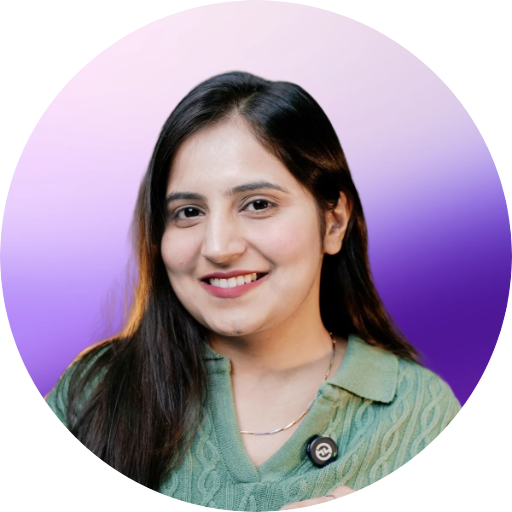
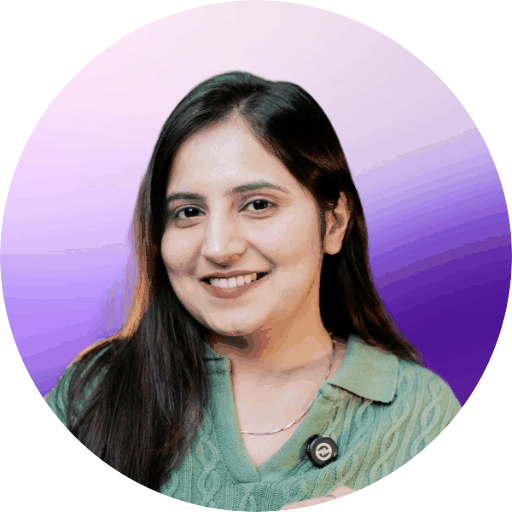
Add cookie consent, load fonts without @import, trim image weight
A cookie notice (accept all / essential only) saves its choice and exposes
window.kcConsent, so analytics can be gated on it later; a Cookie settings
button in every footer reopens it and the Cookie Policy now says so. Google
Fonts moves from a CSS @import to link tags so it no longer waits on the
stylesheet. The 512px icon drops from 329 KB to 162 KB, and the logo strip
images gain width and height to stop layout shift. Sitemap dates refreshed.

diff --git a/assets/js/main.js b/assets/js/main.js
@@ -2,6 +2,83 @@
 (function () {
   'use strict';
 
+  /* ---------- cookie consent ----------------------------------------------
+     The visitor chooses "all" or "essential"; the choice lives in
+     localStorage and any page can read it through window.kcConsent. Nothing
+     non-essential is loaded yet. When analytics goes in, load it only after
+     kcConsent.allowed() is true, or inside a 'kc:consent' listener:
+
+       if (kcConsent.allowed()) loadAnalytics();
+       document.addEventListener('kc:consent', function (e) {
+         if (e.detail === 'all') loadAnalytics();
+       });
+
+     The footer's "Cookie settings" button reopens the notice.             */
+  (function () {
+    var KEY = 'kc:consent';
+    var read = function () {
+      try { var v = localStorage.getItem(KEY); return v === 'all' || v === 'essential' ? v : null; }
+      catch (err) { return null; }
+    };
+    var write = function (v) {
+      try { localStorage.setItem(KEY, v); } catch (err) { /* private mode: choice lasts the page */ }
+    };
+    var current = read();
+
+    window.kcConsent = {
+      get: function () { return current; },
+      allowed: function () { return current === 'all'; }
+    };
+
+    var box = null;
+    var build = function () {
+      box = document.createElement('div');
+      box.className = 'consent';
+      box.setAttribute('role', 'dialog');
+      box.setAttribute('aria-label', 'Cookie preferences');
+      box.hidden = true;
+      box.innerHTML =
+        '<p class="consent__title">Cookies</p>' +
+        '<p class="consent__text">We use essential cookies to keep the site working, and, if you allow it, analytics ' +
+        'cookies to see how it is used. <a href="/cookie-policy.html">Cookie Policy</a></p>' +
+        '<div class="consent__actions">' +
+          '<button type="button" class="btn" data-consent="all">Accept all</button>' +
+          '<button type="button" class="btn btn--ghost" data-consent="essential">Essential only</button>' +
+        '</div>';
+      box.addEventListener('click', function (e) {
+        var b = e.target.closest('[data-consent]');
+        if (!b) return;
+        current = b.getAttribute('data-consent');
+        write(current);
+        box.classList.remove('is-open');
+        setTimeout(function () { box.hidden = true; }, 350);
+        document.dispatchEvent(new CustomEvent('kc:consent', { detail: current }));
+      });
+      document.body.appendChild(box);
+    };
+
+    var open = function (focus) {
+      if (!box) build();
+      box.hidden = false;
+      // reading a layout property commits the hidden state first, so the
+      // transition runs (no frame callbacks: they stall in background tabs)
+      void box.offsetWidth;
+      box.classList.add('is-open');
+      if (focus) { var first = box.querySelector('button'); if (first) first.focus(); }
+    };
+
+    document.addEventListener('click', function (e) {
+      if (e.target.closest('[data-cookie-settings]')) open(true);
+    });
+
+    // First visit: wait until the loading screen has gone, then ask.
+    if (current === null) {
+      var ask = function () { setTimeout(function () { if (read() === null) open(false); }, 900); };
+      if (document.readyState === 'complete') ask();
+      else window.addEventListener('load', ask);
+    }
+  })();
+
   /* ---------- loading screen ----------------------------------------------
      A logo over a progress bar. The bar is a spring chasing a target that
      creeps forward in random steps every half second, never past 90% until

diff --git a/index.html b/index.html
@@ -27,6 +27,7 @@
 <meta name="theme-color" content="#742aff">
 <link rel="preconnect" href="https://fonts.googleapis.com">
 <link rel="preconnect" href="https://fonts.gstatic.com" crossorigin>
+<link rel="stylesheet" href="https://fonts.googleapis.com/css2?family=Bricolage+Grotesque:opsz,wdth,wght@12..96,75..100,200..800&amp;family=Geist+Mono:wght@300..700&amp;display=swap">
 <link rel="stylesheet" href="assets/css/style.css">
 <script type="application/ld+json">
 {
@@ -144,14 +145,14 @@
     </div>
     <div class="marquee">
       <div class="marquee__track logo-track">
-        <span class="logo-item"><img src="assets/img/logos/hp.svg" alt="HP" data-logo="hp"></span>
-        <span class="logo-item"><img src="assets/img/logos/hostinger.svg" alt="Hostinger" data-logo="hostinger"></span>
-        <span class="logo-item"><img src="assets/img/logos/onecard.svg" alt="OneCard" data-logo="onecard"></span>
-        <span class="logo-item"><img src="assets/img/logos/kommo.svg" alt="Kommo" data-logo="kommo"></span>
-        <span class="logo-item"><img src="assets/img/logos/superprofile.svg" alt="Superprofile" data-logo="superprofile"></span>
-        <span class="logo-item"><img src="assets/img/logos/aisensy.svg" alt="AiSensy" data-logo="aisensy"></span>
-        <span class="logo-item"><img src="assets/img/logos/briskpe.svg" alt="BriskPe" data-logo="briskpe"></span>
-        <span class="logo-item"><img src="assets/img/logos/creatorx.svg" alt="CreatorX" data-logo="creatorx"></span>
+        <span class="logo-item"><img src="assets/img/logos/hp.svg" alt="HP" width="367" height="367" data-logo="hp"></span>
+        <span class="logo-item"><img src="assets/img/logos/hostinger.svg" alt="Hostinger" width="979" height="199" data-logo="hostinger"></span>
+        <span class="logo-item"><img src="assets/img/logos/onecard.svg" alt="OneCard" width="568" height="326" data-logo="onecard"></span>
+        <span class="logo-item"><img src="assets/img/logos/kommo.svg" alt="Kommo" width="964" height="208" data-logo="kommo"></span>
+        <span class="logo-item"><img src="assets/img/logos/superprofile.svg" alt="Superprofile" width="1063" height="245" data-logo="superprofile"></span>
+        <span class="logo-item"><img src="assets/img/logos/aisensy.svg" alt="AiSensy" width="879" height="184" data-logo="aisensy"></span>
+        <span class="logo-item"><img src="assets/img/logos/briskpe.svg" alt="BriskPe" width="769" height="160" data-logo="briskpe"></span>
+        <span class="logo-item"><img src="assets/img/logos/creatorx.svg" alt="CreatorX" width="797" height="143" data-logo="creatorx"></span>
       </div>
     </div>
   </div>
@@ -1048,6 +1049,7 @@
         <a href="privacy-policy.html">Privacy Policy</a>
         <a href="terms-of-use.html">Terms of Use</a>
         <a href="cookie-policy.html">Cookie Policy</a>
+        <button type="button" class="footer__link-btn" data-cookie-settings>Cookie settings</button>
         <a href="disclaimer.html">Disclaimer</a>
       </p>
     </div>

diff --git a/portfolio.html b/portfolio.html
@@ -27,6 +27,7 @@
 <meta name="theme-color" content="#742aff">
 <link rel="preconnect" href="https://fonts.googleapis.com">
 <link rel="preconnect" href="https://fonts.gstatic.com" crossorigin>
+<link rel="stylesheet" href="https://fonts.googleapis.com/css2?family=Bricolage+Grotesque:opsz,wdth,wght@12..96,75..100,200..800&amp;family=Geist+Mono:wght@300..700&amp;display=swap">
 <link rel="stylesheet" href="assets/css/style.css">
 </head>
 <body>
@@ -401,14 +402,14 @@
   </div>
   <div class="marquee">
     <div class="marquee__track logo-track">
-      <span class="logo-item"><img src="assets/img/logos/hp.svg" alt="HP" data-logo="hp"></span>
-      <span class="logo-item"><img src="assets/img/logos/hostinger.svg" alt="Hostinger" data-logo="hostinger"></span>
-      <span class="logo-item"><img src="assets/img/logos/onecard.svg" alt="OneCard" data-logo="onecard"></span>
-      <span class="logo-item"><img src="assets/img/logos/kommo.svg" alt="Kommo" data-logo="kommo"></span>
-      <span class="logo-item"><img src="assets/img/logos/superprofile.svg" alt="Superprofile" data-logo="superprofile"></span>
-      <span class="logo-item"><img src="assets/img/logos/aisensy.svg" alt="AiSensy" data-logo="aisensy"></span>
-      <span class="logo-item"><img src="assets/img/logos/briskpe.svg" alt="BriskPe" data-logo="briskpe"></span>
-      <span class="logo-item"><img src="assets/img/logos/creatorx.svg" alt="CreatorX" data-logo="creatorx"></span>
+      <span class="logo-item"><img src="assets/img/logos/hp.svg" alt="HP" width="367" height="367" data-logo="hp"></span>
+      <span class="logo-item"><img src="assets/img/logos/hostinger.svg" alt="Hostinger" width="979" height="199" data-logo="hostinger"></span>
+      <span class="logo-item"><img src="assets/img/logos/onecard.svg" alt="OneCard" width="568" height="326" data-logo="onecard"></span>
+      <span class="logo-item"><img src="assets/img/logos/kommo.svg" alt="Kommo" width="964" height="208" data-logo="kommo"></span>
+      <span class="logo-item"><img src="assets/img/logos/superprofile.svg" alt="Superprofile" width="1063" height="245" data-logo="superprofile"></span>
+      <span class="logo-item"><img src="assets/img/logos/aisensy.svg" alt="AiSensy" width="879" height="184" data-logo="aisensy"></span>
+      <span class="logo-item"><img src="assets/img/logos/briskpe.svg" alt="BriskPe" width="769" height="160" data-logo="briskpe"></span>
+      <span class="logo-item"><img src="assets/img/logos/creatorx.svg" alt="CreatorX" width="797" height="143" data-logo="creatorx"></span>
     </div>
   </div>
 </section>
@@ -594,6 +595,7 @@
         <a href="privacy-policy.html">Privacy Policy</a>
         <a href="terms-of-use.html">Terms of Use</a>
         <a href="cookie-policy.html">Cookie Policy</a>
+        <button type="button" class="footer__link-btn" data-cookie-settings>Cookie settings</button>
         <a href="disclaimer.html">Disclaimer</a>
       </p>
     </div>

diff --git a/assets/css/style.css b/assets/css/style.css
@@ -5,8 +5,6 @@
    Palette: black / white / neutrals
    ========================================================================== */
 
-@import url('https://fonts.googleapis.com/css2?family=Bricolage+Grotesque:opsz,wdth,wght@12..96,75..100,200..800&family=Geist+Mono:wght@300..700&display=swap');
-
 /* --------------------------------------------------------------------------
    1. Tokens
    -------------------------------------------------------------------------- */
@@ -1579,6 +1577,11 @@ em, .em        { font-style: italic; font-weight: 500; }
 }
 .footer__copy a { color: var(--on-dark-3); text-decoration: underline; text-underline-offset: .22em; }
 .footer__copy a:hover { color: var(--on-dark-2); }
+.footer__link-btn {
+  padding: 0; border: 0; background: none; font: inherit; cursor: pointer;
+  color: var(--on-dark-3); text-decoration: underline; text-underline-offset: .22em;
+}
+.footer__link-btn:hover { color: var(--on-dark-2); }
 
 /* Phones get the email on its own line and the two socials beneath it, and
    the copyright on its own line above the two policy links.
@@ -3053,3 +3056,29 @@ em, .em        { font-style: italic; font-weight: 500; }
   will-change: transform;
 }
 @keyframes preloader-failsafe { to { opacity: 0; visibility: hidden; pointer-events: none; } }
+
+/* --------------------------------------------------------------------------
+   Cookie notice — built by main.js on a first visit, and by the footer's
+   "Cookie settings" button afterwards. Sits under the loading screen.
+   -------------------------------------------------------------------------- */
+.consent {
+  position: fixed; left: 1rem; bottom: 1rem; z-index: 900;
+  width: min(25rem, calc(100vw - 2rem));
+  padding: 1.25rem 1.25rem 1.1rem;
+  background: var(--paper); color: var(--text);
+  border: 1px solid var(--line); border-radius: var(--r-card);
+  box-shadow: 0 18px 48px -18px rgba(0, 0, 0, .28), 0 2px 6px rgba(0, 0, 0, .06);
+  opacity: 0; transform: translateY(14px);
+  transition: opacity .35s var(--ease), transform .35s var(--ease);
+}
+.consent[hidden] { display: none; }
+.consent.is-open { opacity: 1; transform: none; }
+.consent__title { margin: 0 0 .35rem; font-weight: 600; font-size: 1.05rem; letter-spacing: var(--ls-tight); }
+.consent__text { margin: 0; font-size: var(--fs-sm); line-height: 1.5; color: var(--text-2); }
+.consent__text a { color: inherit; text-decoration: underline; text-underline-offset: .2em; }
+.consent__actions { display: flex; flex-wrap: wrap; gap: .5rem; margin-top: 1rem; }
+.consent__actions .btn { padding: .6rem 1.1rem; font-size: var(--fs-sm); }
+@media (max-width: 480px) {
+  .consent { left: .75rem; right: .75rem; bottom: .75rem; width: auto; }
+  .consent__actions .btn { flex: 1 1 0; justify-content: center; }
+}

diff --git a/cookie-policy.html b/cookie-policy.html
@@ -27,6 +27,7 @@
 <meta name="theme-color" content="#742aff">
 <link rel="preconnect" href="https://fonts.googleapis.com">
 <link rel="preconnect" href="https://fonts.gstatic.com" crossorigin>
+<link rel="stylesheet" href="https://fonts.googleapis.com/css2?family=Bricolage+Grotesque:opsz,wdth,wght@12..96,75..100,200..800&amp;family=Geist+Mono:wght@300..700&amp;display=swap">
 <link rel="stylesheet" href="assets/css/style.css">
 </head>
 <body>
@@ -128,7 +129,7 @@
           <li>Receive warnings before cookies are stored</li>
         </ul>
         <p>Disabling certain cookies may affect website functionality.</p>
-        <p>Where legally required, Kajal &amp; Co. may also provide additional cookie controls on the website.</p>
+        <p>When you first visit, a cookie notice lets you accept or reject non-essential cookies. Non-essential cookies, such as analytics, are only set if you accept. You can change your choice at any time with the &ldquo;Cookie settings&rdquo; link in the footer of every page.</p>
         <h2 class="h3">6. Changes to This Cookie Policy</h2>
         <p>Kajal &amp; Co. may update this Cookie Policy when tracking technologies or website functionality change.</p>
         <p>The updated version will be published on this page with a revised "Last updated" date.</p>
@@ -157,6 +158,7 @@
         <a href="privacy-policy.html">Privacy Policy</a>
         <a href="terms-of-use.html">Terms of Use</a>
         <a href="cookie-policy.html">Cookie Policy</a>
+        <button type="button" class="footer__link-btn" data-cookie-settings>Cookie settings</button>
         <a href="disclaimer.html">Disclaimer</a>
       </p>
     </div>

diff --git a/work/4s-realty-ventures.html b/work/4s-realty-ventures.html
@@ -27,6 +27,7 @@
 <meta name="theme-color" content="#742aff">
 <link rel="preconnect" href="https://fonts.googleapis.com">
 <link rel="preconnect" href="https://fonts.gstatic.com" crossorigin>
+<link rel="stylesheet" href="https://fonts.googleapis.com/css2?family=Bricolage+Grotesque:opsz,wdth,wght@12..96,75..100,200..800&amp;family=Geist+Mono:wght@300..700&amp;display=swap">
 <link rel="stylesheet" href="../assets/css/style.css">
 
 <script type="application/ld+json">
@@ -510,6 +511,7 @@
         <a href="../privacy-policy.html">Privacy Policy</a>
         <a href="../terms-of-use.html">Terms of Use</a>
         <a href="../cookie-policy.html">Cookie Policy</a>
+        <button type="button" class="footer__link-btn" data-cookie-settings>Cookie settings</button>
         <a href="../disclaimer.html">Disclaimer</a>
       </p>
     </div>

diff --git a/work/aarshaveda.html b/work/aarshaveda.html
@@ -27,6 +27,7 @@
 <meta name="theme-color" content="#742aff">
 <link rel="preconnect" href="https://fonts.googleapis.com">
 <link rel="preconnect" href="https://fonts.gstatic.com" crossorigin>
+<link rel="stylesheet" href="https://fonts.googleapis.com/css2?family=Bricolage+Grotesque:opsz,wdth,wght@12..96,75..100,200..800&amp;family=Geist+Mono:wght@300..700&amp;display=swap">
 <link rel="stylesheet" href="../assets/css/style.css">
 
 <script type="application/ld+json">
@@ -504,6 +505,7 @@
         <a href="../privacy-policy.html">Privacy Policy</a>
         <a href="../terms-of-use.html">Terms of Use</a>
         <a href="../cookie-policy.html">Cookie Policy</a>
+        <button type="button" class="footer__link-btn" data-cookie-settings>Cookie settings</button>
         <a href="../disclaimer.html">Disclaimer</a>
       </p>
     </div>

diff --git a/work/ak-followers.html b/work/ak-followers.html
@@ -27,6 +27,7 @@
 <meta name="theme-color" content="#742aff">
 <link rel="preconnect" href="https://fonts.googleapis.com">
 <link rel="preconnect" href="https://fonts.gstatic.com" crossorigin>
+<link rel="stylesheet" href="https://fonts.googleapis.com/css2?family=Bricolage+Grotesque:opsz,wdth,wght@12..96,75..100,200..800&amp;family=Geist+Mono:wght@300..700&amp;display=swap">
 <link rel="stylesheet" href="../assets/css/style.css">
 
 <script type="application/ld+json">
@@ -504,6 +505,7 @@
         <a href="../privacy-policy.html">Privacy Policy</a>
         <a href="../terms-of-use.html">Terms of Use</a>
         <a href="../cookie-policy.html">Cookie Policy</a>
+        <button type="button" class="footer__link-btn" data-cookie-settings>Cookie settings</button>
         <a href="../disclaimer.html">Disclaimer</a>
       </p>
     </div>

diff --git a/work/blythe-living-performance.html b/work/blythe-living-performance.html
@@ -27,6 +27,7 @@
 <meta name="theme-color" content="#742aff">
 <link rel="preconnect" href="https://fonts.googleapis.com">
 <link rel="preconnect" href="https://fonts.gstatic.com" crossorigin>
+<link rel="stylesheet" href="https://fonts.googleapis.com/css2?family=Bricolage+Grotesque:opsz,wdth,wght@12..96,75..100,200..800&amp;family=Geist+Mono:wght@300..700&amp;display=swap">
 <link rel="stylesheet" href="../assets/css/style.css">
 
 <script type="application/ld+json">
@@ -504,6 +505,7 @@
         <a href="../privacy-policy.html">Privacy Policy</a>
         <a href="../terms-of-use.html">Terms of Use</a>
         <a href="../cookie-policy.html">Cookie Policy</a>
+        <button type="button" class="footer__link-btn" data-cookie-settings>Cookie settings</button>
         <a href="../disclaimer.html">Disclaimer</a>
       </p>
     </div>

diff --git a/work/blythe-living-seo.html b/work/blythe-living-seo.html
@@ -27,6 +27,7 @@
 <meta name="theme-color" content="#742aff">
 <link rel="preconnect" href="https://fonts.googleapis.com">
 <link rel="preconnect" href="https://fonts.gstatic.com" crossorigin>
+<link rel="stylesheet" href="https://fonts.googleapis.com/css2?family=Bricolage+Grotesque:opsz,wdth,wght@12..96,75..100,200..800&amp;family=Geist+Mono:wght@300..700&amp;display=swap">
 <link rel="stylesheet" href="../assets/css/style.css">
 
 <script type="application/ld+json">
@@ -510,6 +511,7 @@
         <a href="../privacy-policy.html">Privacy Policy</a>
         <a href="../terms-of-use.html">Terms of Use</a>
         <a href="../cookie-policy.html">Cookie Policy</a>
+        <button type="button" class="footer__link-btn" data-cookie-settings>Cookie settings</button>
         <a href="../disclaimer.html">Disclaimer</a>
       </p>
     </div>

diff --git a/work/deage.html b/work/deage.html
@@ -27,6 +27,7 @@
 <meta name="theme-color" content="#742aff">
 <link rel="preconnect" href="https://fonts.googleapis.com">
 <link rel="preconnect" href="https://fonts.gstatic.com" crossorigin>
+<link rel="stylesheet" href="https://fonts.googleapis.com/css2?family=Bricolage+Grotesque:opsz,wdth,wght@12..96,75..100,200..800&amp;family=Geist+Mono:wght@300..700&amp;display=swap">
 <link rel="stylesheet" href="../assets/css/style.css">
 
 <script type="application/ld+json">
@@ -510,6 +511,7 @@
         <a href="../privacy-policy.html">Privacy Policy</a>
         <a href="../terms-of-use.html">Terms of Use</a>
         <a href="../cookie-policy.html">Cookie Policy</a>
+        <button type="button" class="footer__link-btn" data-cookie-settings>Cookie settings</button>
         <a href="../disclaimer.html">Disclaimer</a>
       </p>
     </div>

diff --git a/work/jungle-world-seo.html b/work/jungle-world-seo.html
@@ -27,6 +27,7 @@
 <meta name="theme-color" content="#742aff">
 <link rel="preconnect" href="https://fonts.googleapis.com">
 <link rel="preconnect" href="https://fonts.gstatic.com" crossorigin>
+<link rel="stylesheet" href="https://fonts.googleapis.com/css2?family=Bricolage+Grotesque:opsz,wdth,wght@12..96,75..100,200..800&amp;family=Geist+Mono:wght@300..700&amp;display=swap">
 <link rel="stylesheet" href="../assets/css/style.css">
 
 <script type="application/ld+json">
@@ -452,6 +453,7 @@
         <a href="../privacy-policy.html">Privacy Policy</a>
         <a href="../terms-of-use.html">Terms of Use</a>
         <a href="../cookie-policy.html">Cookie Policy</a>
+        <button type="button" class="footer__link-btn" data-cookie-settings>Cookie settings</button>
         <a href="../disclaimer.html">Disclaimer</a>
       </p>
     </div>
